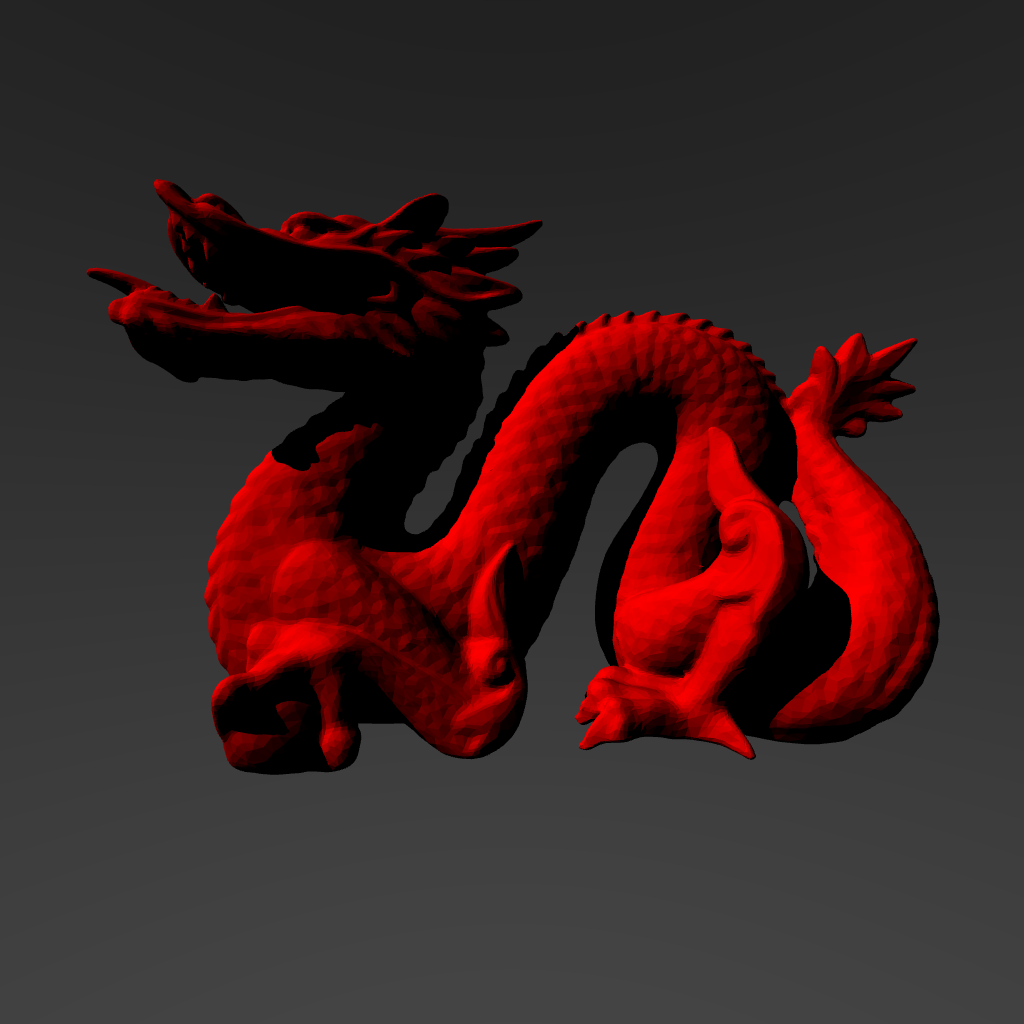
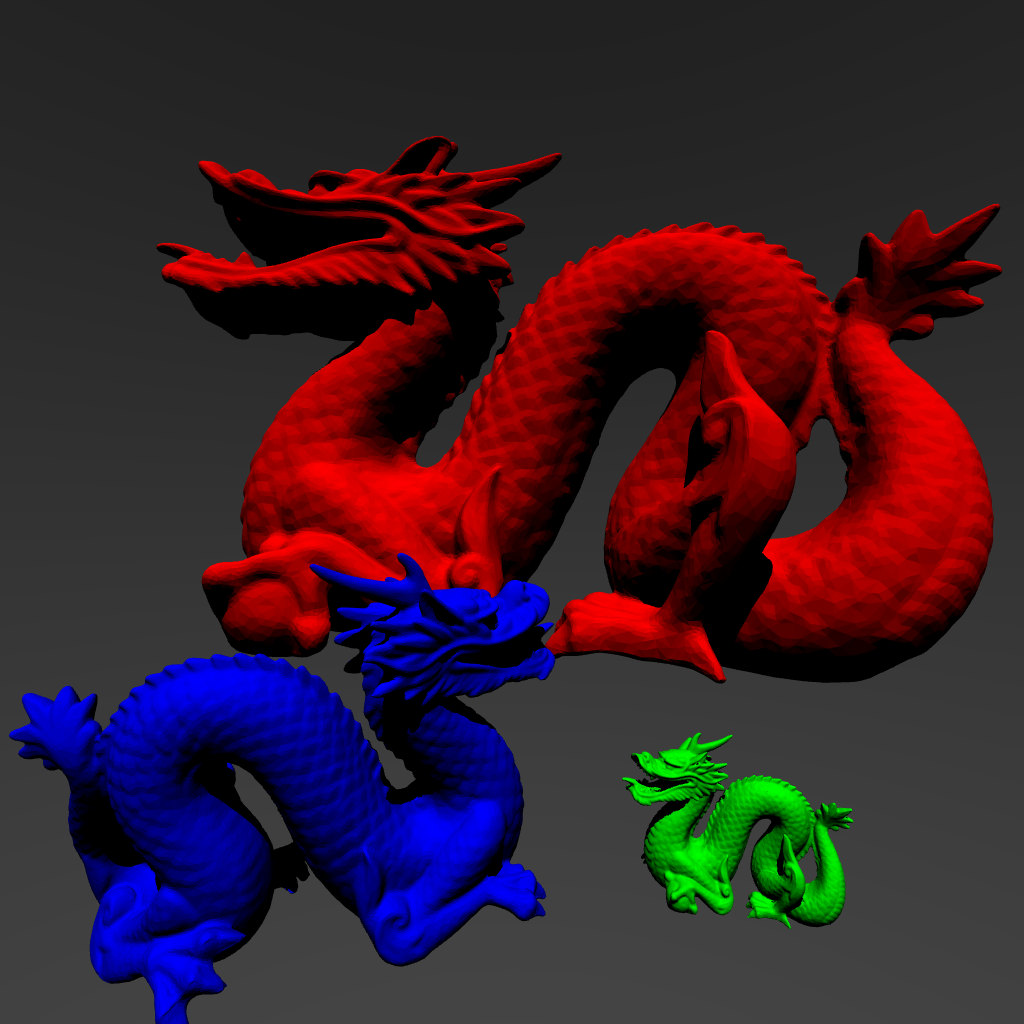
Tue Apr  8 18:05:49 CEST 2025

diff --git a/src/synthese.cpp b/src/synthese.cpp
@@ -192,10 +192,14 @@ void scene8(unsigned int width, unsigned int height) {
     scene.setDarkSkyColor(0.1f, 0.1f, 0.1f);
 
     /* ---- Lights ---- */
-    scene.add(new DirectionalLight(Color(1.0f, 1.0f, 1.0f), Vector(-2.0f, 2.0f, 1.0f)));
+    scene.add(new DirectionalLight(Color(1.0f, 1.0f, 1.0f), Vector(0.0f, 2.0f, 1.0f)));
 
     /* ---- Objects ---- */
-    scene.add("data/synthese/dragon80k.obj", translate(0.0f, 0.2f, -4.0f).scale(6.0f).rotateY(90.0f), Red(), false);
+    MeshIOData dragon;
+    read_meshio_data("data/synthese/dragon80k.obj", dragon);
+    scene.add(dragon, translate(0.0f, 0.75f, -4.0f).scale(6.0f).rotateY(75.0f), Red(), false);
+    scene.add(dragon, translate(-0.5f, -0.75f, -1.5f).scale(1.5f).rotateY(-75.0f), Blue(), false);
+    scene.add(dragon, translate(0.5f, -0.75f, -1.2f).scale(0.5f).rotateY(75.0f), Green(), false);
 
     scene.render(width, height);
 }
@@ -225,8 +229,8 @@ int main() {
         // scene5(1024, 512);
         // scene6(768, 512);
         // scene7(512, 512);
-        // scene8(1024, 1024);
-        scene9(512, 512);
+        scene8(1024, 1024);
+        // scene9(512, 512);
     } catch(const std::exception& exception) {
         std::cerr << "ERROR : " << exception.what() << '\n';
         return -1;
